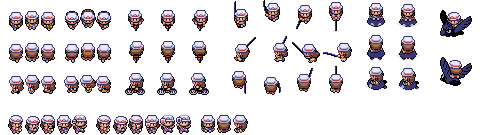
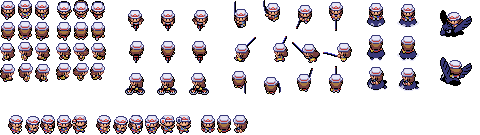
Sprite images

Changed region(s): [[0.0, 0.0, 0.25, 0.7111]]

diff --git a/Classes/Characters/Character.cpp b/Classes/Characters/Character.cpp
@@ -216,23 +216,23 @@ void Character::setMovePos(float delta)
 
 void Character::updateSpriteAnimate(float delta)
 {
-	float w, h, x, y;
+	int w, h, x, y;
 
-	w = 16.f;
-	h = 20.f;
-	x = 0.f;
-	y = 0.f;
+	w = 16;
+	h = 20;
+	x = 0;
+	y = 0;
 
 	switch (this->curAnimeType)
 	{
 		case Character::ANIMETYPE::STAND:
-			x = w;
+			x = w + 1;
 			break;
 		case Character::ANIMETYPE::RUN:
-			x = (w + 2) * 3;
+			x = (w+1) * 3 + 5;
 			if (this->isMoveActing == true)
 			{
-				x += w * this->oldAnimePos;
+				x += (w + 1) * this->oldAnimePos;
 				this->oldAnimePos++;
 				if (this->oldAnimePos >= 3)
 				{
@@ -241,12 +241,14 @@ void Character::updateSpriteAnimate(float delta)
 			}
 			else
 			{
-				x += w;
+				x += (w + 1);
 			}
 			break;
 		case Character::ANIMETYPE::WALK:
-			x = (w) * this->oldAnimePos;
+			x = (w + 1) * this->oldAnimePos;
+
 			this->oldAnimePos++;
+
 			if (this->oldAnimePos >= 3)
 			{
 				this->oldAnimePos = 0;
@@ -257,16 +259,16 @@ void Character::updateSpriteAnimate(float delta)
 	switch (this->direction) 
 	{
 		case Character::DIRECTION::UP:
-			y = (h + 2);
+			y = (h + 1);
 			break;
 		case Character::DIRECTION::DOWN:
 			y = 0;
 			break;
 		case Character::DIRECTION::LEFT:
-			y = (h + 2) * 2;
+			y = (h + 1) * 2;
 			break;
 		case Character::DIRECTION::RIGHT:
-			y = (h + 2) * 3;
+			y = (h + 1) * 3;
 			break;
 	}
 

diff --git a/Classes/PlayLayer.cpp b/Classes/PlayLayer.cpp
@@ -54,7 +54,7 @@ bool PlayLayer::init()
 	auto mapDetails = map->getMapInfo()->getObjectGroup("DETAILS");
 
 	auto trainer = new Trainer;
-	trainer->setSprite(RD_C_TRAINERS + "/male_frlg.png");
+	trainer->setSprite(RD_C_TRAINERS + "/female_frlg.png");
 	trainer->setName("Dark.Hades");
 	auto toPos = Vec2(0, 0);
 	if (mapDetails)
